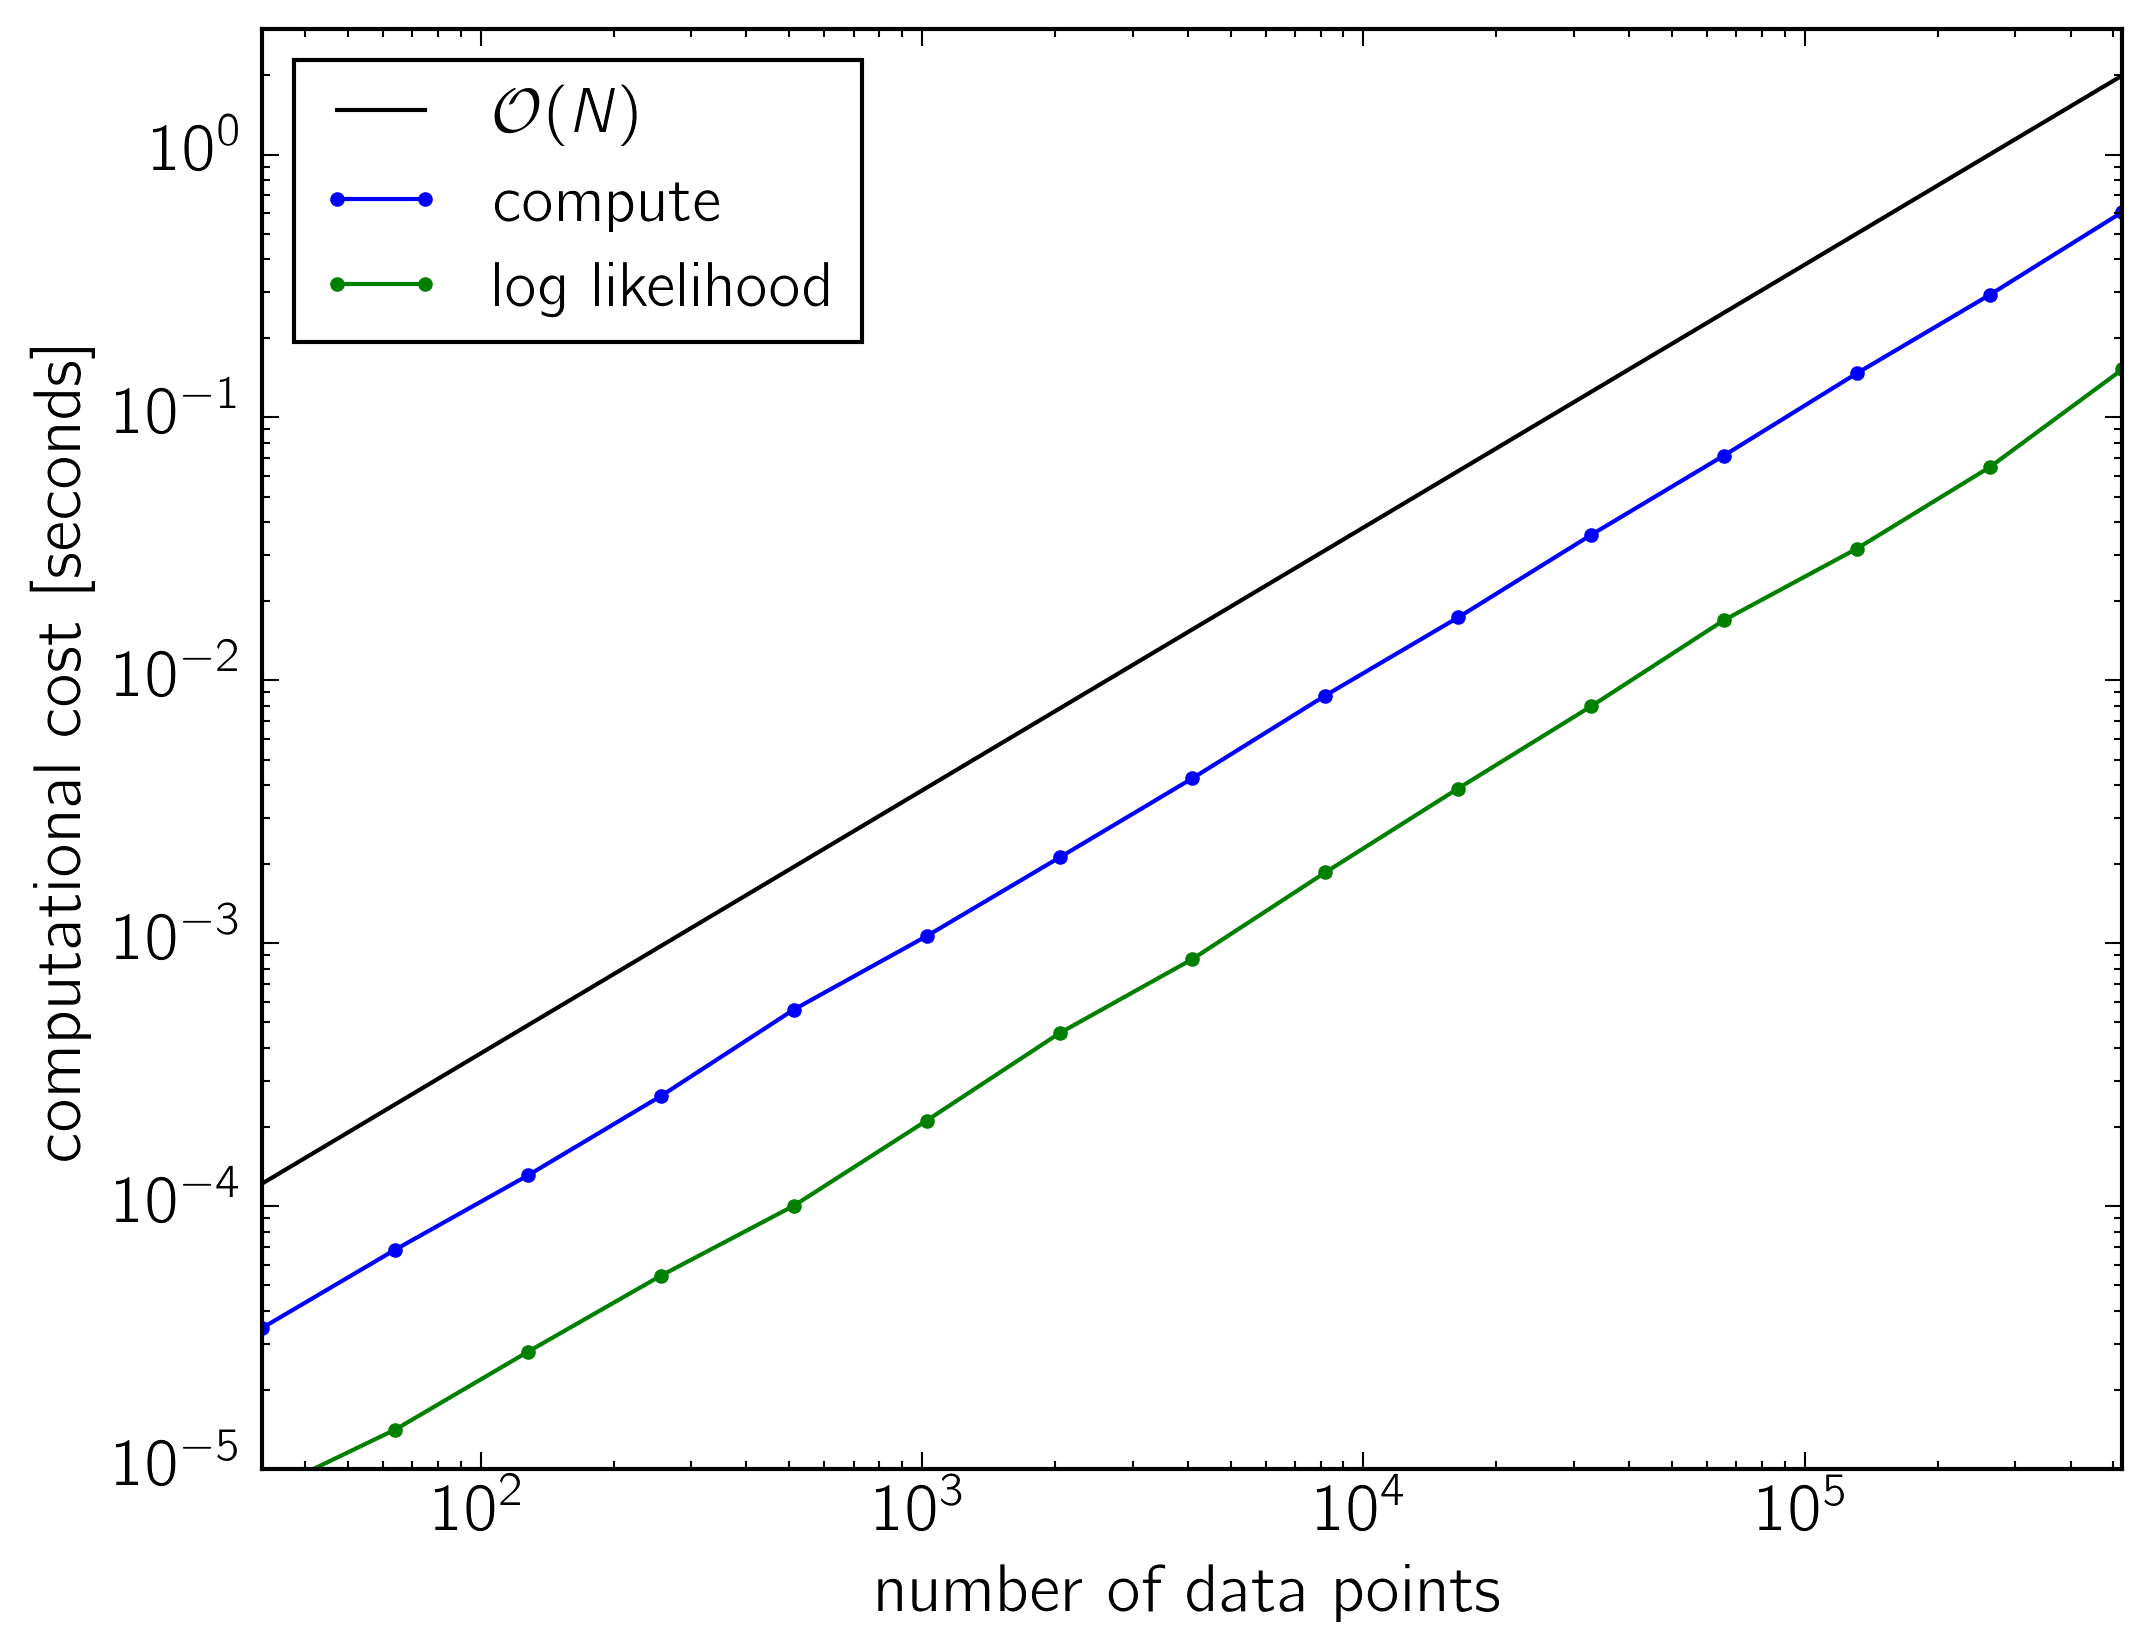
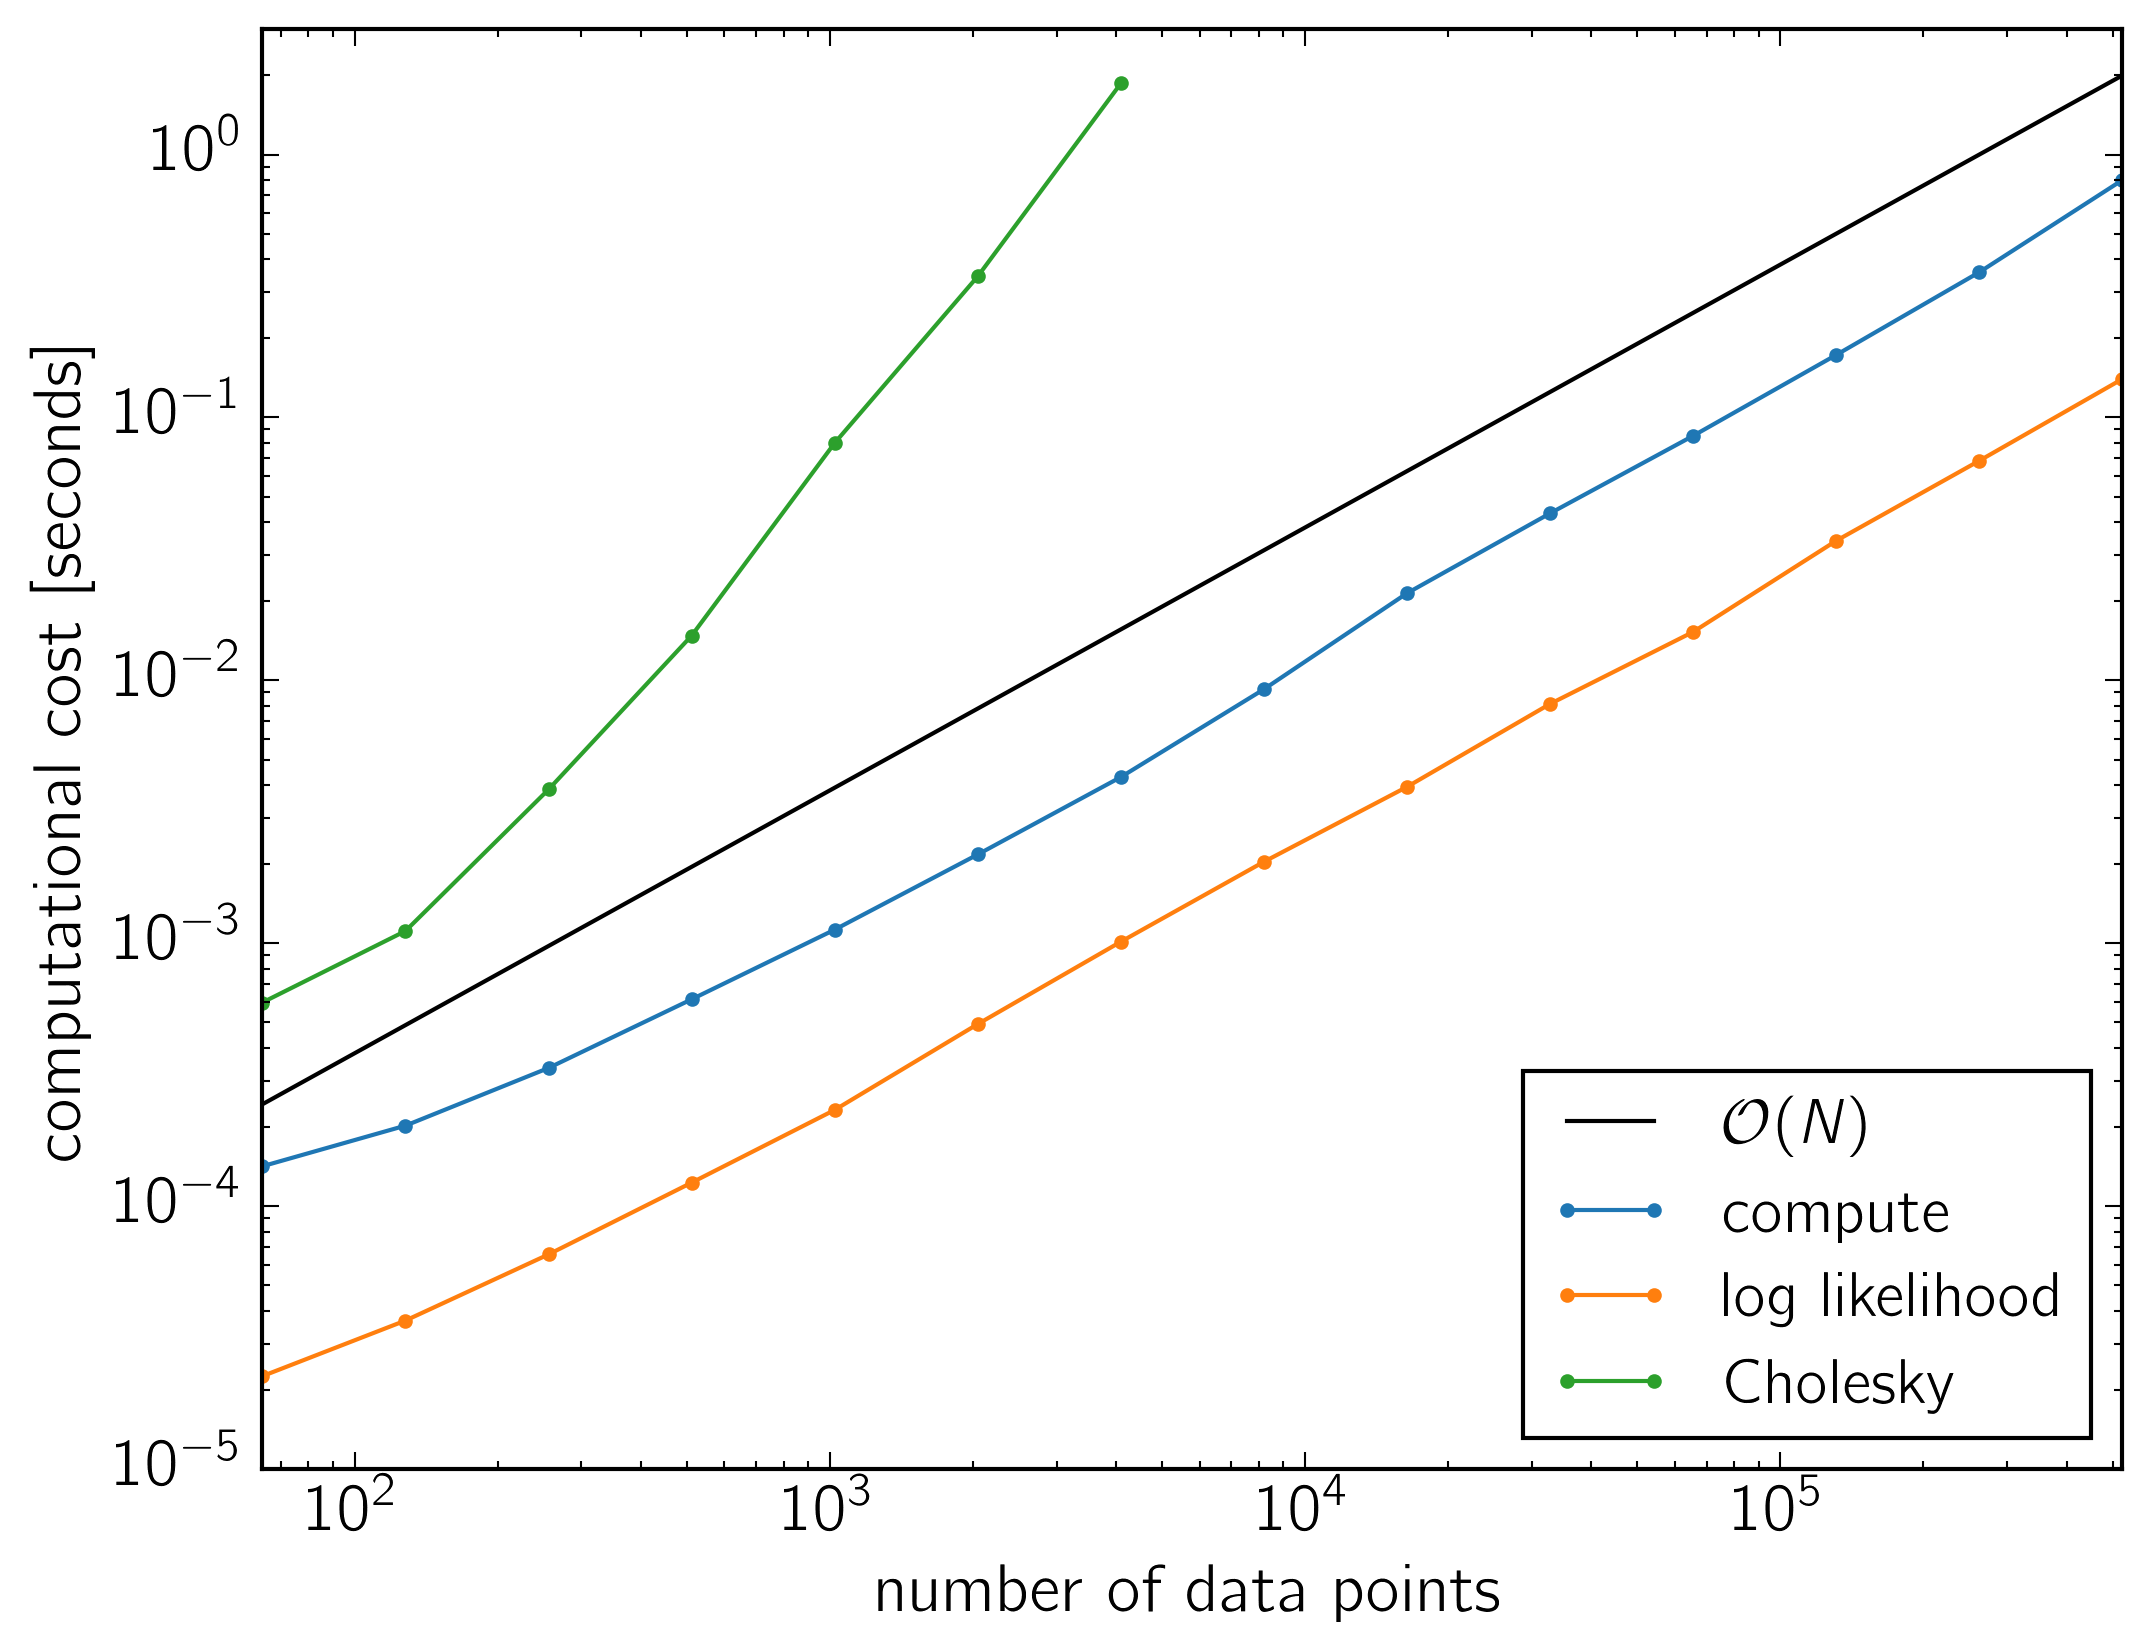
adding cholesky factorization to Python demo

diff --git a/python/genrp/kernels.py b/python/genrp/kernels.py
@@ -16,9 +16,20 @@ class Kernel(object):
 
     parameter_names = tuple()
 
-    def __init__(self):
-        self.unfrozen_mask = np.ones(self.full_size, dtype=bool)
+    def __init__(self, p_real=0, p_complex=0, size=None):
+        if size is None:
+            size = self.full_size
+        self.unfrozen_mask = np.ones(size, dtype=bool)
         self.dirty = True
+
+        self.p_real = p_real
+        self.alpha_real = np.empty(p_real, dtype=np.float64)
+        self.beta_real = np.empty(p_real, dtype=np.float64)
+        self.p_complex = p_complex
+        self.alpha_complex_real = np.empty(p_complex, dtype=np.float64)
+        self.alpha_complex_imag = np.empty(p_complex, dtype=np.float64)
+        self.beta_complex_real = np.empty(p_complex, dtype=np.float64)
+        self.beta_complex_imag = np.empty(p_complex, dtype=np.float64)
 
     def __len__(self):
         return self.vector_size
@@ -34,12 +45,12 @@ class Kernel(object):
     def get_value(self, x):
         x = np.asarray(x)
         k = kernel_value(
-            self.alpha_real.astype(float),
-            self.beta_real.astype(float),
-            self.alpha_complex_real.astype(float),
-            self.alpha_complex_imag.astype(float),
-            self.beta_complex_real.astype(float),
-            self.beta_complex_imag.astype(float),
+            self.alpha_real,
+            self.beta_real,
+            self.alpha_complex_real,
+            self.alpha_complex_imag,
+            self.beta_complex_real,
+            self.beta_complex_imag,
             x.flatten().astype(float),
         )
         return k.reshape(x.shape)
@@ -47,24 +58,24 @@ class Kernel(object):
     def get_psd(self, w):
         w = np.asarray(w)
         p = kernel_psd(
-            self.alpha_real.astype(float),
-            self.beta_real.astype(float),
-            self.alpha_complex_real.astype(float),
-            self.alpha_complex_imag.astype(float),
-            self.beta_complex_real.astype(float),
-            self.beta_complex_imag.astype(float),
+            self.alpha_real,
+            self.beta_real,
+            self.alpha_complex_real,
+            self.alpha_complex_imag,
+            self.beta_complex_real,
+            self.beta_complex_imag,
             w.flatten().astype(float),
         )
         return p.reshape(w.shape)
 
     def check_parameters(self):
         return check_parameters(
-            self.alpha_real.astype(float),
-            self.beta_real.astype(float),
-            self.alpha_complex_real.astype(float),
-            self.alpha_complex_imag.astype(float),
-            self.beta_complex_real.astype(float),
-            self.beta_complex_imag.astype(float),
+            self.alpha_real,
+            self.beta_real,
+            self.alpha_complex_real,
+            self.alpha_complex_imag,
+            self.beta_complex_real,
+            self.beta_complex_imag,
         )
 
     def __add__(self, b):
@@ -111,38 +122,6 @@ class Kernel(object):
         v = self.get_parameter_vector(include_frozen=True)
         v[i] = value
         self.set_parameter_vector(v, include_frozen=True)
-
-    @property
-    def p_real(self):
-        return 0
-
-    @property
-    def p_complex(self):
-        return 0
-
-    @property
-    def alpha_real(self):
-        return np.empty(0)
-
-    @property
-    def beta_real(self):
-        return np.empty(0)
-
-    @property
-    def alpha_complex_real(self):
-        return np.empty(0)
-
-    @property
-    def alpha_complex_imag(self):
-        return np.empty(0)
-
-    @property
-    def beta_complex_real(self):
-        return np.empty(0)
-
-    @property
-    def beta_complex_imag(self):
-        return np.empty(0)
 
 
 class Sum(Kernel):
@@ -270,9 +249,25 @@ class RealTerm(Kernel):
     parameter_names = ("a", "log_c")
 
     def __init__(self, a, log_c):
-        super(RealTerm, self).__init__()
+        super(RealTerm, self).__init__(p_real=1)
         self.a = a
         self.log_c = log_c
+
+    @property
+    def a(self):
+        return self.alpha_real[0]
+
+    @a.setter
+    def a(self, value):
+        self.alpha_real[0] = value
+
+    @property
+    def log_c(self):
+        return math.log(self.beta_real[0])
+
+    @log_c.setter
+    def log_c(self, value):
+        self.beta_real[0] = math.exp(value)
 
     @property
     def parameter_vector(self):
@@ -285,18 +280,6 @@ class RealTerm(Kernel):
 
     def __repr__(self):
         return "RealTerm({0.a}, {0.log_c})".format(self)
-
-    @property
-    def p_real(self):
-        return 1
-
-    @property
-    def alpha_real(self):
-        return np.array([self.a])
-
-    @property
-    def beta_real(self):
-        return np.array([math.exp(self.log_c)])
 
 
 class ComplexTerm(Kernel):
@@ -311,11 +294,45 @@ class ComplexTerm(Kernel):
             a, b, log_c, log_d = args
             self.fit_b = True
             self.parameter_names = ("a", "b", "log_c", "log_d")
+
+        super(ComplexTerm, self).__init__(p_complex=1)
+
         self.a = a
         self.b = b
         self.log_c = log_c
         self.log_d = log_d
-        super(ComplexTerm, self).__init__()
+
+    @property
+    def a(self):
+        return self.alpha_complex_real[0]
+
+    @a.setter
+    def a(self, value):
+        self.alpha_complex_real[0] = value
+
+    @property
+    def b(self):
+        return self.alpha_complex_imag[0]
+
+    @b.setter
+    def b(self, value):
+        self.alpha_complex_imag[0] = value
+
+    @property
+    def log_c(self):
+        return math.log(self.beta_complex_real[0])
+
+    @log_c.setter
+    def log_c(self, value):
+        self.beta_complex_real[0] = math.exp(value)
+
+    @property
+    def log_d(self):
+        return math.log(self.beta_complex_imag[0])
+
+    @log_d.setter
+    def log_d(self, value):
+        self.beta_complex_imag[0] = math.exp(value)
 
     @property
     def parameter_vector(self):
@@ -338,26 +355,6 @@ class ComplexTerm(Kernel):
         if not self.fit_b:
             return "ComplexTerm({0.a}, {0.log_c}, {0.log_d})".format(self)
         return "ComplexTerm({0.a}, {0.b}, {0.log_c}, {0.log_d})".format(self)
-
-    @property
-    def p_complex(self):
-        return 1
-
-    @property
-    def alpha_complex_real(self):
-        return np.array([self.a])
-
-    @property
-    def alpha_complex_imag(self):
-        return np.array([self.b])
-
-    @property
-    def beta_complex_real(self):
-        return np.array([math.exp(self.log_c)])
-
-    @property
-    def beta_complex_imag(self):
-        return np.array([math.exp(self.log_d)])
 
 
 class SHOTerm(Kernel):

diff --git a/python/demo.py b/python/demo.py
@@ -1,23 +1,29 @@
+from cycler import cycler
 from matplotlib import rcParams
 rcParams["font.size"] = 16
 rcParams["font.family"] = "sans-serif"
 rcParams["font.sans-serif"] = ["Computer Modern Sans"]
 rcParams["text.usetex"] = True
 rcParams["text.latex.preamble"] = r"\usepackage{cmbright}"
+rcParams["axes.prop_cycle"] = cycler("color", (
+    "#1f77b4", "#ff7f0e", "#2ca02c", "#d62728", "#9467bd", "#8c564b",
+    "#e377c2", "#7f7f7f", "#bcbd22", "#17becf",
+))  # d3.js color cycle
 
 import time
 import numpy as np
 import matplotlib.pyplot as pl
+from scipy.linalg import cho_factor
 
-from genrp import GP
+from genrp import kernels, GP
 
-gp = GP()
-gp.add_term(1.0, 0.1)
-gp.add_term(0.1, 2.0, 1.6)
+kernel = kernels.RealTerm(1.0, 0.1) + kernels.ComplexTerm(0.1, 2.0, 1.6)
+gp = GP(kernel)
 
-N = 2**np.arange(5, 20)
+N = 2**np.arange(6, 20)
 K = np.maximum((N.max() / N), 5*np.ones_like(N)).astype(int)
-times = np.empty((len(N), 2))
+K_chol = np.maximum((4096 / N), 5*np.ones_like(N)).astype(int)
+times = np.empty((len(N), 3))
 times[:] = np.nan
 
 t = np.sort(np.random.rand(np.max(N)))
@@ -35,14 +41,24 @@ for i, n in enumerate(N):
         gp.log_likelihood(y[:n])
     times[i, 1] = (time.time() - strt) / K[i]
 
+    if n <= 4096:
+        strt = time.time()
+        for k in range(K_chol[i]):
+            C = gp.get_matrix(t[:n])
+            C[np.diag_indices_from(C)] += yerr[:n]**2
+            cho_factor(C)
+        times[i, 2] = (time.time() - strt) / K_chol[i]
+
     print(n, times[i, :])
 
 pl.plot(N, N / N[-1] * 2.0, "k", label="$\mathcal{O}(N)$")
 pl.plot(N, times[:, 0], ".-", label="compute")
 pl.plot(N, times[:, 1], ".-", label="log likelihood")
+m = np.isfinite(times[:, 2])
+pl.plot(N[m], times[:, 2][m], ".-", label="Cholesky")
 pl.xscale("log")
 pl.yscale("log")
-pl.legend(loc=2, fontsize=15)
+pl.legend(loc=4, fontsize=15)
 pl.xlim(N.min(), N.max())
 pl.ylim(1e-5, 3.0)
 pl.xlabel("number of data points")

diff --git a/python/genrp/genrp.py b/python/genrp/genrp.py
@@ -81,9 +81,8 @@ class GP(object):
             self.kernel.set_parameter(name[7:], value)
 
     def compute(self, t, yerr=1.123e-12):
-        self._t = np.ascontiguousarray(t, dtype=float)
-        self._yerr = yerr + np.zeros_like(self._t)
-        self._y_var = yerr*yerr + np.exp(self.log_white_noise)
+        self._t = t
+        self._yerr = yerr
         self.solver = Solver(
             self.kernel.alpha_real,
             self.kernel.beta_real,
@@ -91,8 +90,9 @@ class GP(object):
             self.kernel.alpha_complex_imag,
             self.kernel.beta_complex_real,
             self.kernel.beta_complex_imag,
-            self._t,
-            self._y_var,
+            np.ascontiguousarray(t, dtype=np.float64),
+            np.ascontiguousarray(yerr**2 + np.exp(self.log_white_noise),
+                                 dtype=np.float64),
         )
         self._computed = True
         self.kernel.dirty = False
@@ -101,7 +101,7 @@ class GP(object):
         if not self.computed:
             if self._t is None:
                 raise RuntimeError("you must call 'compute' first")
-            self.compute(self._t, np.sqrt(self._y_var))
+            self.compute(self._t, self._y_err)
         if len(self._t) != len(y):
             raise ValueError("dimension mismatch")
         y = np.ascontiguousarray(y, dtype=float)
